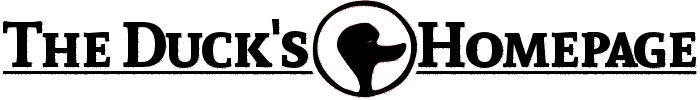
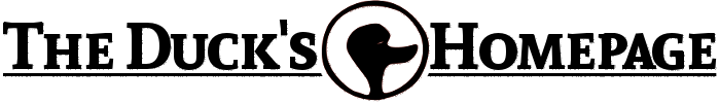
Updated website

diff --git a/index.html b/index.html
@@ -7,33 +7,33 @@
 </head>
 <body>
 <div id="container">
-  <img src="head-title.png" width=700 style="margin-bottom:50px"></img>
+  <img src="head-title.png" width=720 style="margin-bottom:0px"></img>
 
   <div id="left-panel">
-    <img src="duck-launcher.svg" width=200></img>
+    <img src="profile2.png" width=200></img>
 
     <div id="info-block">
       <h1>Mark Spurgeon</h1>
       <h2><a href="https://github.com/the-duck">@the-duck</a></h2>
-      <p>I do web development with Python (go <a href="">flask!</a>), and I also did some desktop development. I'm a proud linux user (go <a href="#">ubuntu</a>! and <a href="#" >elementary</a>! and <a href="#" >solus os</a>!). Otherwise, I like designing and illustrating. I'm also a 3D artist.</p>
+      <p>I do web development with Python (go <a href="https://github.com/mitsuhiko/flask">flask!</a>), and I also did some desktop development. I'm a proud linux user (go <a href="http://ubuntu.com">ubuntu</a> !). Otherwise, I like designing and illustrating. I'm also a 3D artist.</p>
     </div>
   </div>
 
   <div id="content">
     <h1 class="big-title">Personnal Projects</h1>
     <div class="project">
-      <img src="noimage.png" width=500></img>
-      <h1>That Startpage Rocks</h1>
-      <p>A startpage that is fast, simple and beautiful. It's an alternative to the default browser's homepage, but stands out with a search engine that directly finds results from web services. </p>
+      <img src="t-s-r.png" width=500></img>
+      <h1 class="project-title">That Startpage Rocks <span class="special">Web App</span></h1>
+      <p>A startpage that is fast, simple and beautiful. It's an alternative to the default browser's homepage, but stands out with a search engine that directly finds results from web services. It's built with <a href="http://flask.pocoo.org/">Flask</a>, a python-based microframework, and is hosted on Google App Engine.</p>
       <div class="links">
         <a href="http://that.startpage.rocks"><i class="fa fa-globe"></i> website</a>
         <a href="https://github.com/the-duck/that-startpage-rocks"><i class="fa fa-github"></i> github</a>
       </div>
     </div>
     <div class="project">
-      <img src="noimage.png" width=500></img>
-      <h1>Duck Launcher</h1>
-      <p>An application launcher for ubuntu and other linux platforms.</p>
+      <img src="d-l.png" width=500></img>
+      <h1 class="project-title">Duck Launcher <span class="special">Desktop App</span> </h1>
+      <p>An application launcher for ubuntu and other linux platforms. It's built with PyQt4, a desktop GUI library for python.</p>
       <div class="links">
         <a href="duck-launcher"><i class="fa fa-globe"></i> website</a>
         <a href="https://github.com/the-duck/launcher"><i class="fa fa-github"></i> github</a>

diff --git a/main.css b/main.css
@@ -20,7 +20,8 @@ body {
   min-height: 200px;
 }
 #info-block {
-  padding:5px;
+  margin-top:10px;
+  padding:10px;
   border-style:dotted;
   border-width: 0px;
   border-right-width: 1px;
@@ -45,4 +46,14 @@ h1.big-title {
 }
 .project h1 {
   font-weight:normal;
+}
+.project-title {
+  text-transform: capitalize;;
+}
+.special {
+  color:#CF000F;
+  opacity: .6;
+}
+a {
+  color:#CF000F;
 }
